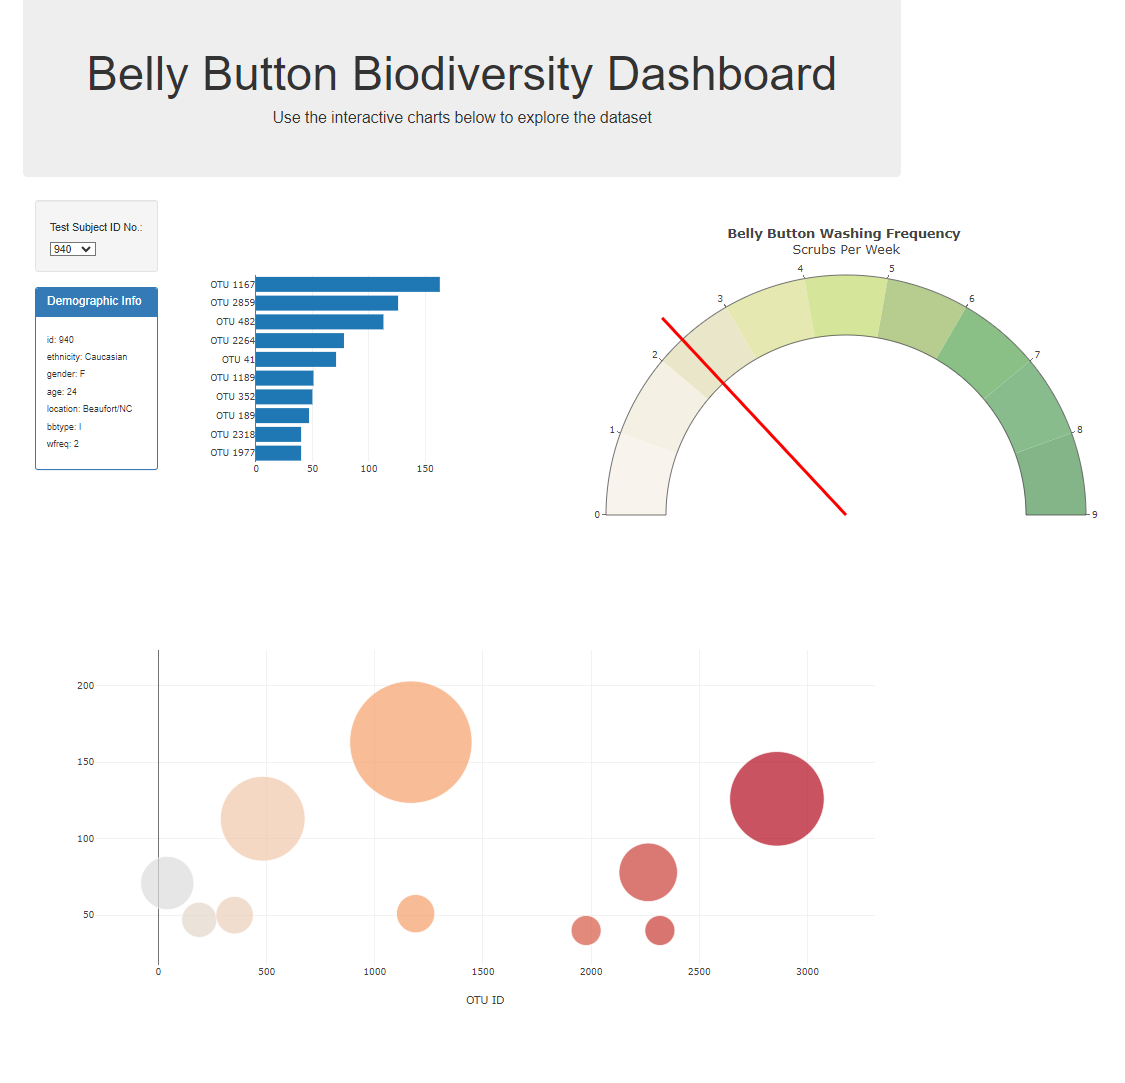
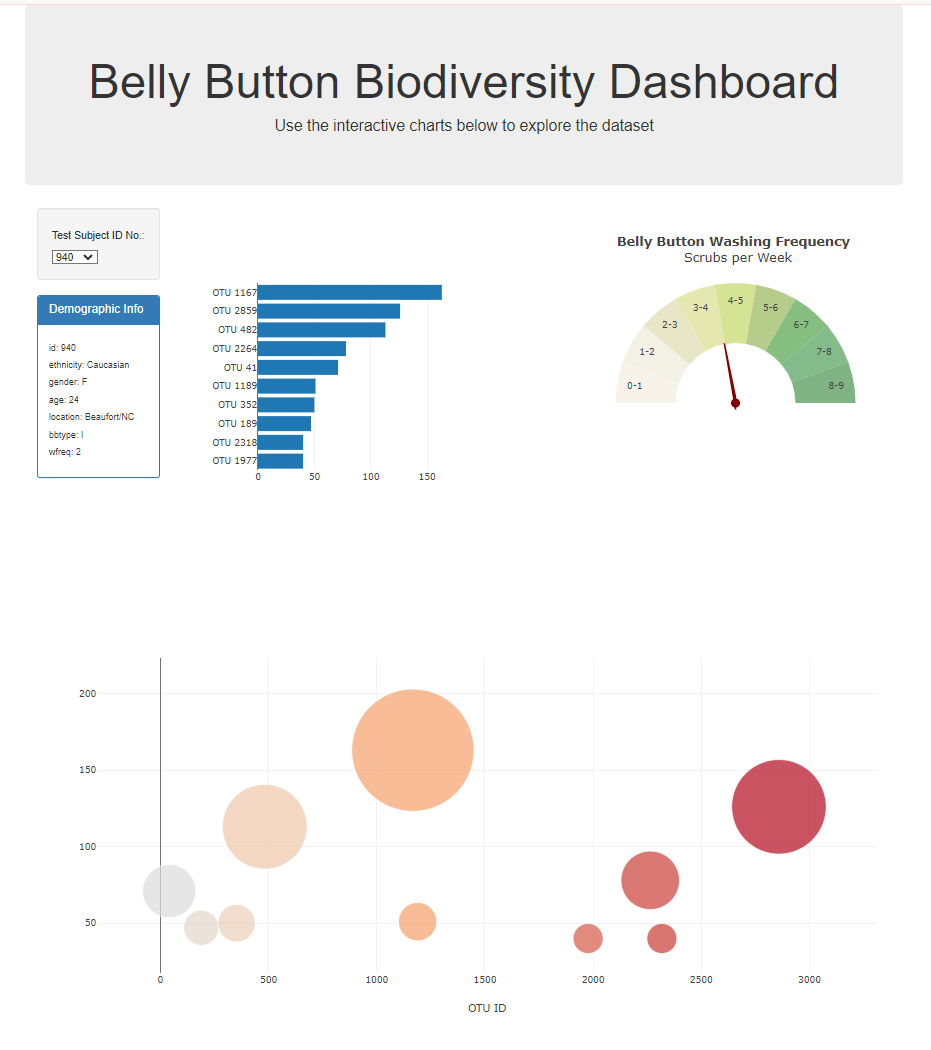
challenge 14 files are updated here

diff --git a/StarterCode/static/js/app.js b/StarterCode/static/js/app.js
@@ -110,66 +110,96 @@ function metadatainfo(id_value){
 init();
 
 // Bonus Gauge chart
-function panelInfo(id) {
-  d3.json(url).then(function (data) {
-      let sampleData = data;
-      let metadata = sampleData.metadata;
-      let identifier = metadata.filter(sample =>
-          sample.id.toString() === id)[0];
-      let panel = d3.select('#sample-metadata');
-      panel.html('');
-      Object.entries(identifier).forEach(([key, value]) => {
-          panel.append('h6').text(`${key}: ${value}`);
-      })
-      let gaugeTrace = {
-          domain: { x: [0, 5], y: [0, 1] },
-          type: "indicator",
-          ids: ['0-1', '1-2', '2-3', '3-4', '5-6', '6-7', '7-8', '8-9'],
-          gauge: {
-              axis: {
-                  range: [0, 9],
-                  tickmode: 'linear'
-              },
-              steps: [
-                  { range: [0, 1], color: 'rgb(248,243,236)', id: '0-1' },
-                  { range: [1, 2], color: 'rgb(244,241,228)', name: '1-2' },
-                  { range: [2, 3], color: 'rgb(233,230,201)', name: '2-3' },
-                  { range: [3, 4], color: 'rgb(229,232,176)', name: '3-4' },
-                  { range: [4, 5], color: 'rgb(213,229,153)', name: '4-5' },
-                  { range: [5, 6], color: 'rgb(183,205,143)', name: '5-6' },
-                  { range: [6, 7], color: 'rgb(138,192,134)', name: '6-7' },
-                  { range: [7, 8], color: 'rgb(137,188,141)', name: '7-8' },
-                  { range: [8, 9], color: 'rgb(132,181,137)', name: '8-9' },
-              ]
-          },
-          mode: "gauge"
-      };
-      let deg = (180 / 9) * identifier.wfreq;
-      let radius = 0.5;
-      let radians = (deg * Math.PI) / 180;
-      let x = -1 * radius * Math.cos(radians);
-      let y = radius * Math.sin(radians);
-      let guageLayout = {
-          title: "<b>Belly Button Washing Frequency</b> <br>Scrubs Per Week</br>",
-          shapes: [{
-              type: 'line',
-              x0: 0.5,
-              y0: 0,
-              x1: x + 0.5,
-              y1: y + 0.5,
-              line: {
-                  color: 'red',
-                  width: 4
-              }
-          }],
-          xaxis: { visible: true, range: [-1, 1] },
-          yaxis: { visible: true, range: [-1, 1]},
-          width: 800,
-          height: 500
 
-      };
-     
-      let gaugeData = [gaugeTrace];
-      Plotly.newPlot('gauge', gaugeData, guageLayout);
-  })
+function panelInfo(id_value) {
+  // Enter the washing frequency between 0 and 180
+  let level = parseFloat(id_value) * 20;
+
+  // Trig to calc meter point
+  let degrees = 180 - level;
+  let radius = 0.5;
+  let radians = (degrees * Math.PI) / 180;
+  let x = radius * Math.cos(radians);
+  let y = radius * Math.sin(radians);
+
+  // Path: may have to change to create a better triangle
+  let mainPath = "M -.0 -0.05 L .0 0.05 L ";
+  let pathX = String(x);
+  let space = " ";
+  let pathY = String(y);
+  let pathEnd = " Z";
+  let path = mainPath.concat(pathX, space, pathY, pathEnd);
+
+  let data = [
+    {
+      type: "scatter",
+      x: [0],
+      y: [0],
+      marker: { size: 12, color: "850000" },
+      showlegend: false,
+      name: "Freq",
+      text: level,
+      hoverinfo: "text+name"
+    },
+    {
+      values: [50 / 9, 50 / 9, 50 / 9, 50 / 9, 50 / 9, 50 / 9, 50 / 9, 50 / 9, 50 / 9, 50],
+      rotation: 90,
+      text: ["8-9", "7-8", "6-7", "5-6", "4-5", "3-4", "2-3", "1-2", "0-1", ""],
+      textinfo: "text",
+      textposition: "inside",
+      marker: {
+        colors: [
+          "rgba(0, 105, 11, .5)",
+          "rgba(10, 120, 22, .5)",
+          "rgba(14, 127, 0, .5)",
+          "rgba(110, 154, 22, .5)",
+          "rgba(170, 202, 42, .5)",
+          "rgba(202, 209, 95, .5)",
+          "rgba(210, 206, 145, .5)",
+          "rgba(232, 226, 202, .5)",
+          "rgba(240, 230, 215, .5)",
+          "rgba(255, 255, 255, 0)"
+        ]
+      },
+      labels: ["8-9", "7-8", "6-7", "5-6", "4-5", "3-4", "2-3", "1-2", "0-1", ""],
+      hoverinfo: "label",
+      hole: 0.5,
+      type: "pie",
+      showlegend: false
+    }
+  ];
+
+  let layout = {
+    shapes: [
+      {
+        type: "path",
+        path: path,
+        fillcolor: "850000",
+        line: {
+          color: "850000"
+        }
+      }
+    ],
+    title: "<b>Belly Button Washing Frequency</b> <br> Scrubs per Week",
+    height: 500,
+    width: 500,
+    xaxis: {
+      zeroline: false,
+      showticklabels: false,
+      showgrid: false,
+      range: [-1, 1]
+    },
+    yaxis: {
+      zeroline: false,
+      showticklabels: false,
+      showgrid: false,
+      range: [-1, 1]
+    }
+  };
+
+  let GAUGE = document.getElementById("gauge");
+  Plotly.newPlot(GAUGE, data, layout);
 }
+
+
+
